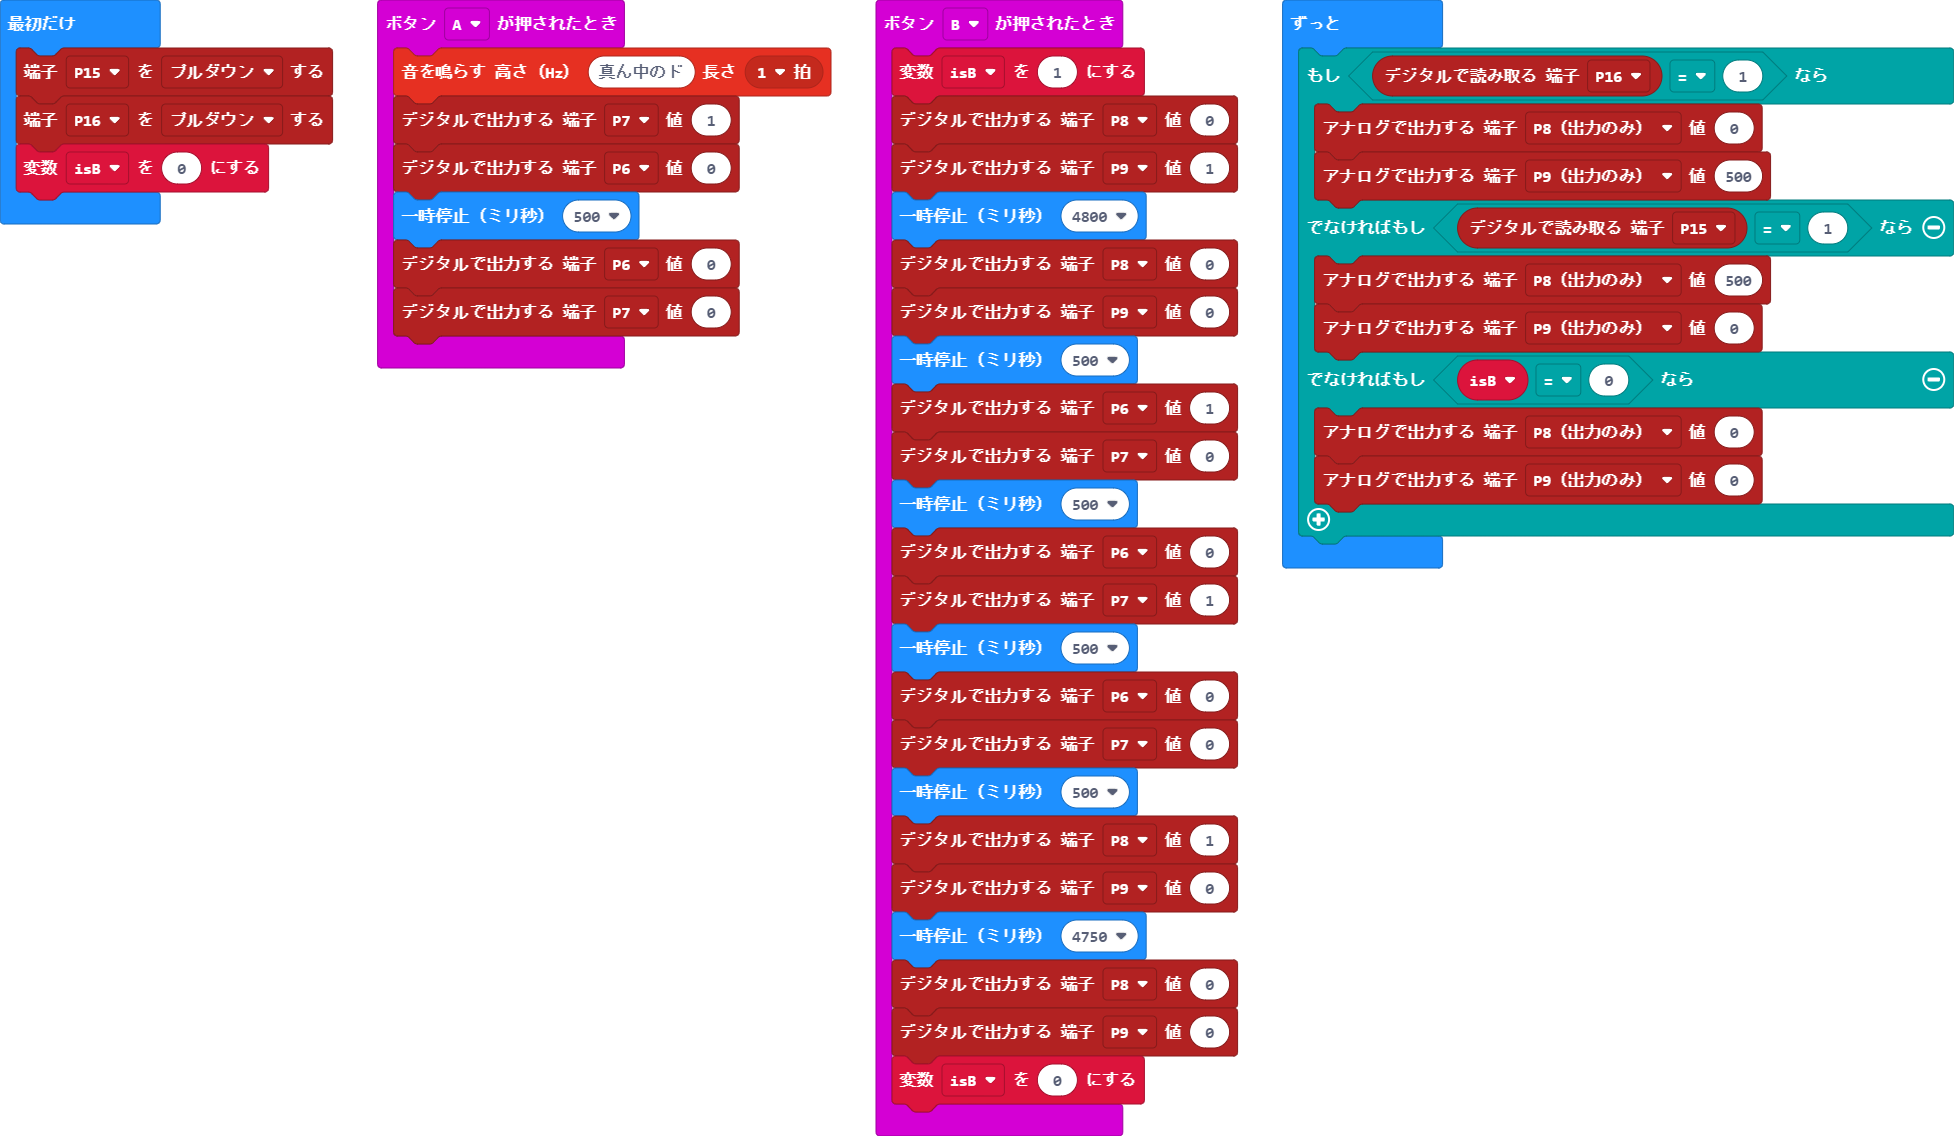
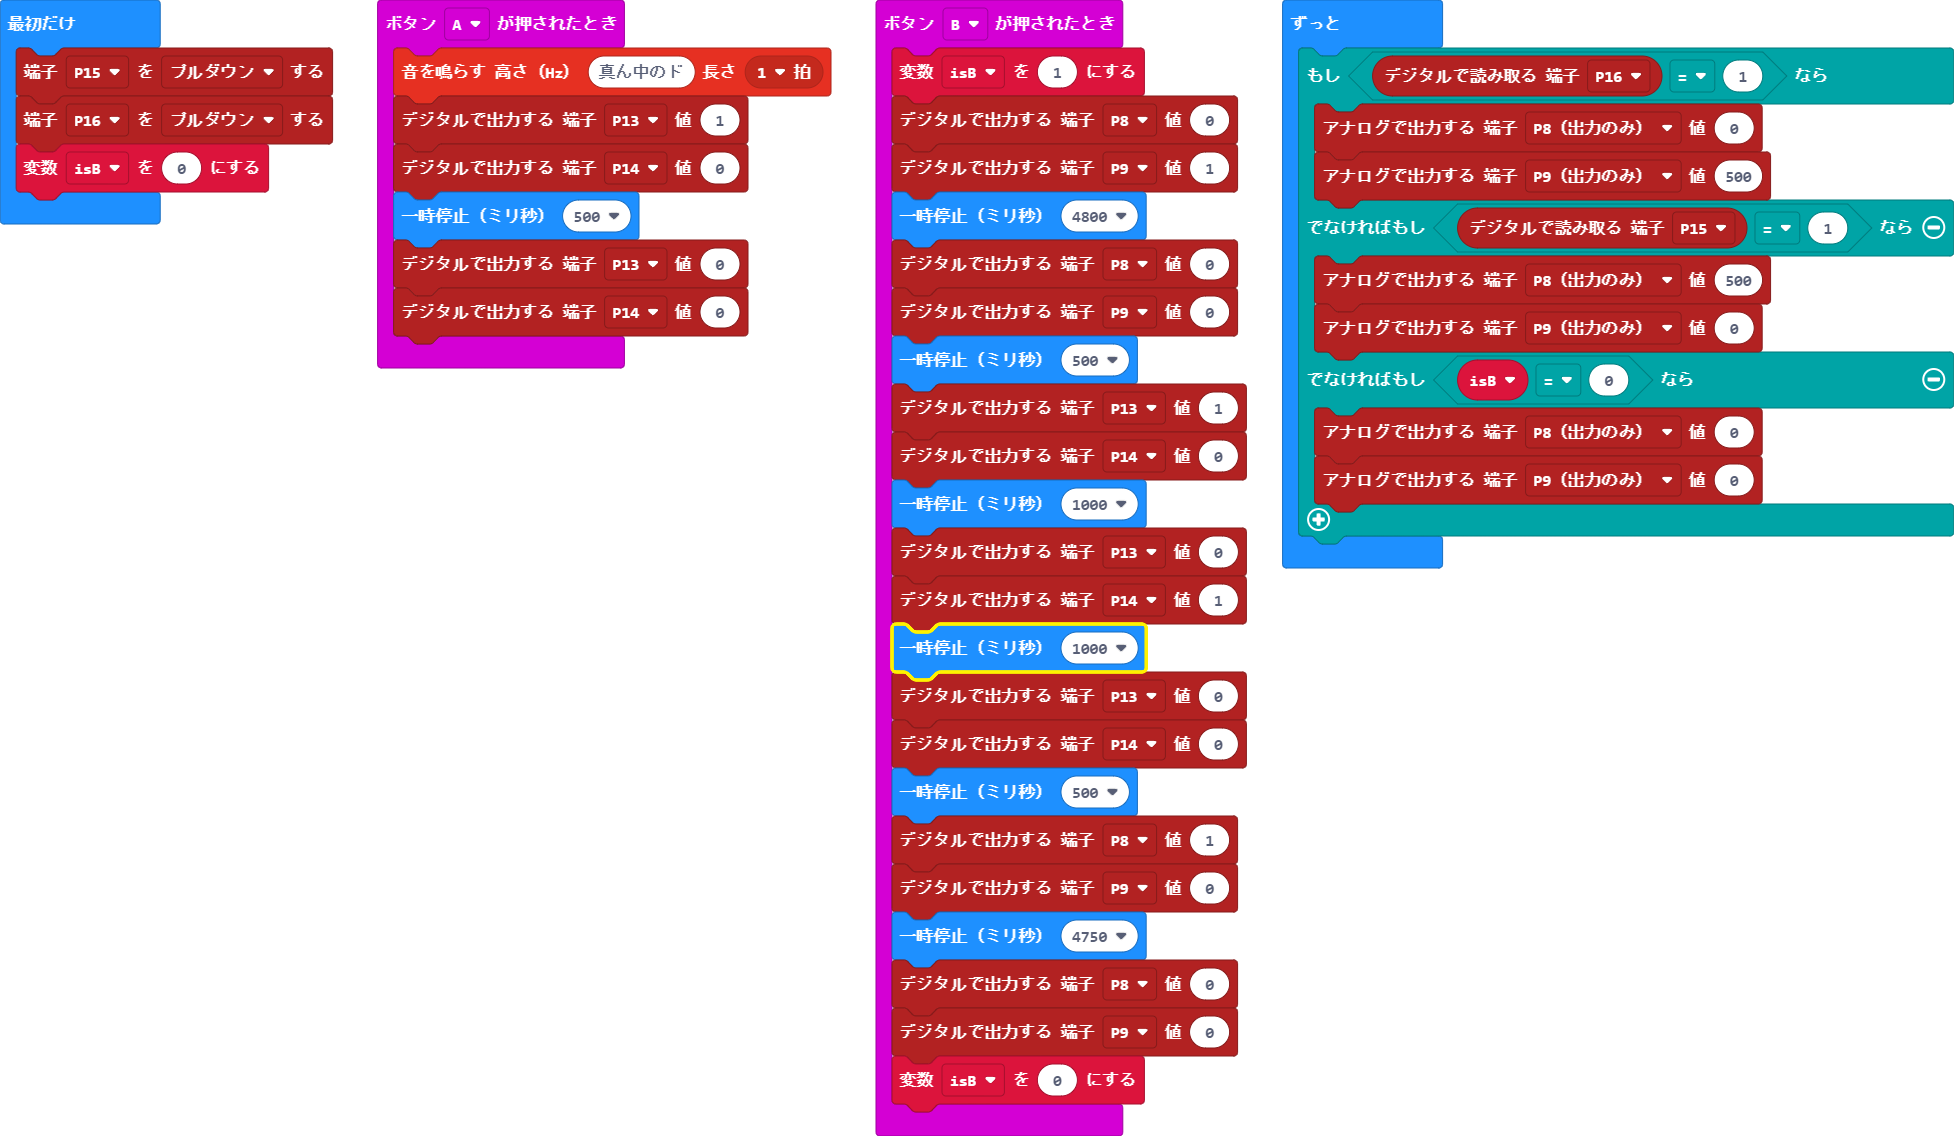
更新 main.blocks, main.ts

Changed region(s): [[0.4683, 0.3389, 0.6556, 0.6778], [0.3122, 0.2157, 0.4058, 0.3081], [0.3122, 0.0924, 0.4058, 0.154]]

diff --git a/main.ts b/main.ts
@@ -1,10 +1,10 @@
 input.onButtonPressed(Button.A, function () {
     music.playTone(262, music.beat(BeatFraction.Whole))
-    pins.digitalWritePin(DigitalPin.P7, 1)
-    pins.digitalWritePin(DigitalPin.P6, 0)
+    pins.digitalWritePin(DigitalPin.P13, 1)
+    pins.digitalWritePin(DigitalPin.P14, 0)
     basic.pause(500)
-    pins.digitalWritePin(DigitalPin.P6, 0)
-    pins.digitalWritePin(DigitalPin.P7, 0)
+    pins.digitalWritePin(DigitalPin.P13, 0)
+    pins.digitalWritePin(DigitalPin.P14, 0)
 })
 input.onButtonPressed(Button.B, function () {
     isB = 1
@@ -14,14 +14,14 @@ input.onButtonPressed(Button.B, function () {
     pins.digitalWritePin(DigitalPin.P8, 0)
     pins.digitalWritePin(DigitalPin.P9, 0)
     basic.pause(500)
-    pins.digitalWritePin(DigitalPin.P6, 1)
-    pins.digitalWritePin(DigitalPin.P7, 0)
-    basic.pause(500)
-    pins.digitalWritePin(DigitalPin.P6, 0)
-    pins.digitalWritePin(DigitalPin.P7, 1)
-    basic.pause(500)
-    pins.digitalWritePin(DigitalPin.P6, 0)
-    pins.digitalWritePin(DigitalPin.P7, 0)
+    pins.digitalWritePin(DigitalPin.P13, 1)
+    pins.digitalWritePin(DigitalPin.P14, 0)
+    basic.pause(1000)
+    pins.digitalWritePin(DigitalPin.P13, 0)
+    pins.digitalWritePin(DigitalPin.P14, 1)
+    basic.pause(1000)
+    pins.digitalWritePin(DigitalPin.P13, 0)
+    pins.digitalWritePin(DigitalPin.P14, 0)
     basic.pause(500)
     pins.digitalWritePin(DigitalPin.P8, 1)
     pins.digitalWritePin(DigitalPin.P9, 0)
